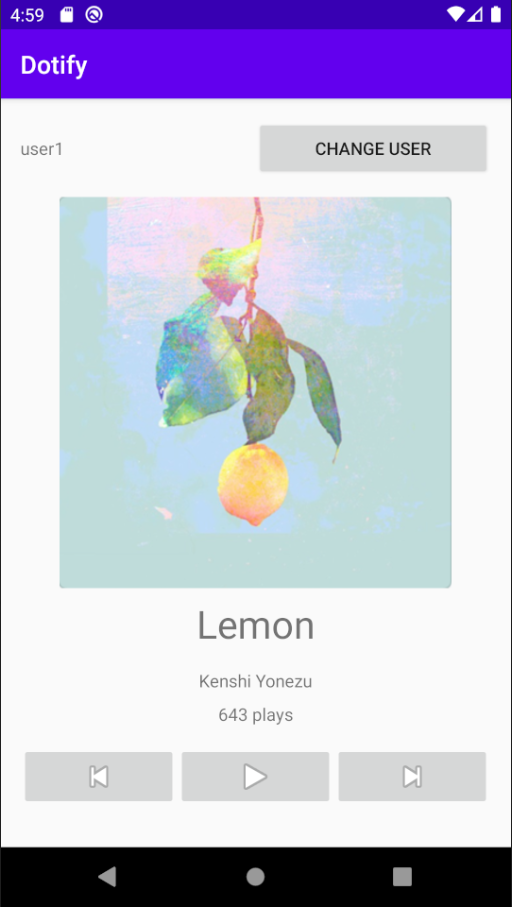
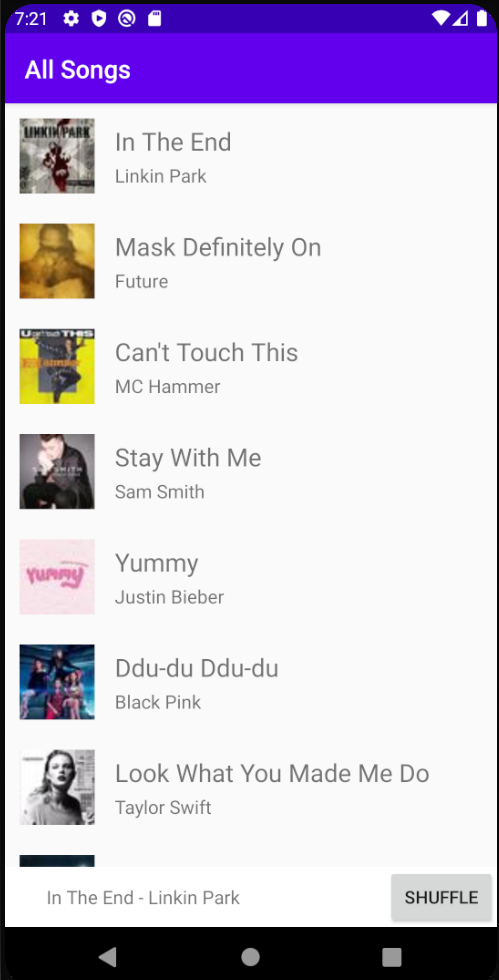
this versions has all the functionality need

diff --git a/app/src/main/java/xuany2/washington/dotify/MainActivity.kt b/app/src/main/java/xuany2/washington/dotify/MainActivity.kt
@@ -39,20 +39,20 @@ class MainActivity : AppCompatActivity() {
         setup2()
     }
 
-    fun setup2() {
+    private fun setup2() {
         val song: Song = intent.getParcelableExtra<Song>(SONG_KEY)
         val songName = song.title
         songTitle.text = songName
         val time = Random.nextInt(0, 10032)
-        playedTimes.text = "$time plays"
+        playedTimes.text = getString(R.string.numTimePlay).format(time)
         album.setImageResource(song.largeImageID)
         val artisteName = song.artist
         artisteNameText.text = artisteName
-        username.text = "Misaka 10032"
-        btnChangeUser.text = "Can't change user in this mode"
+        username.text = getString(R.string.userName)
+        btnChangeUser.text = getString(R.string.cannotChangeUserText)
     }
 
-    fun setup() {
+    private fun setup() {
         songs = mapOf(
             0 to resources.getString(R.string.songName0),
             1 to resources.getString(R.string.songName1),
@@ -100,7 +100,7 @@ class MainActivity : AppCompatActivity() {
         showSong()
     }
 
-    fun changeUser(view: View) {
+    private fun changeUser(view: View) {
         var editText = EditText(this)
         var editId = View.generateViewId()
         editText.id = editId
@@ -114,7 +114,7 @@ class MainActivity : AppCompatActivity() {
         btnApply.setOnClickListener{v: View -> applyChange(v, editId)}
     }
 
-    fun applyChange(view: View, editID: Int) {
+    private fun applyChange(view: View, editID: Int) {
         var input = findViewById<EditText>(editID)
         var inputString: String = input.text.toString().trim()
         if (inputString.isEmpty()) {
@@ -144,7 +144,7 @@ class MainActivity : AppCompatActivity() {
         }
     }
 
-    fun restoreUserSection() {
+    private fun restoreUserSection() {
         userSection.removeAllViews()
         var text = TextView(this)
         text.text = currentUser
@@ -158,7 +158,7 @@ class MainActivity : AppCompatActivity() {
         showSong()
     }
 
-    fun showSong() {
+    private fun showSong() {
         val songName = songs[current]
         songTitle.text = songName
         val time = timePlayedMap?.get(current)
@@ -169,14 +169,14 @@ class MainActivity : AppCompatActivity() {
         artisteNameText.text = artisteName
     }
 
-    fun play(view: View) {
+    private fun play(view: View) {
         var currentTimePlayed: Int = timePlayedMap?.get(current) ?:0
         currentTimePlayed++
         timePlayedMap?.put(current, currentTimePlayed)
         showSong()
     }
 
-    fun next(view: View) {
+    private fun next(view: View) {
         if (current == 3) {
             current = 0
         } else {
@@ -186,7 +186,7 @@ class MainActivity : AppCompatActivity() {
         showSong()
     }
 
-    fun previous(view: View) {
+    private fun previous(view: View) {
         if (current == 0) {
             current = 3
         } else {

diff --git a/app/src/main/java/xuany2/washington/dotify/SongListActivity.kt b/app/src/main/java/xuany2/washington/dotify/SongListActivity.kt
@@ -16,27 +16,37 @@ class SongListActivity : AppCompatActivity() {
         super.onCreate(savedInstanceState)
         setContentView(R.layout.activity_song_list)
 
-        title = "All Songs"
+        title = getString(R.string.allSong)
+        textNowPlaying.text = getString(R.string.defaultNowPlaying)
         var currentSong: Song? = null
 
+        // get all songs from data provider
         val listOfSong = SongDataProvider.getAllSongs().toMutableList()
 
         val songAdapter = SongListAdapter(listOfSong)
 
+        // set onclick event for any song
+        // change the text in now playing section
         songAdapter.onSongClickListener = {
-            textNowPlaying.text = "${it.title} - ${it.artist}"
+            textNowPlaying.text = getString(R.string.nowPlayingText).format(it.title, it.artist)
             currentSong = it
         }
 
-
+        // set onclick event for the shuffle button
+        // when a user clicks on the shuffle button, the list of
+        // songs will be shuffled
         btnShuffle.setOnClickListener{
             val newListOfSong = listOfSong.apply {shuffle()}
+            // pass the shuffled list to adapter
             songAdapter.shuffle(newListOfSong)
         }
 
+        // set onclick event for now playing section
+        // switch to a new activity when clicking on now playing section
         nowPlayingSection.setOnClickListener{
+            // if no song is playing, ask the user to play a song first
             if (currentSong == null) {
-                Toast.makeText(this, "No song is currently playing", Toast.LENGTH_SHORT).show()
+                Toast.makeText(this, getString(R.string.noSongPlaying), Toast.LENGTH_SHORT).show()
             } else {
                 val intent = Intent(this, MainActivity::class.java)
                 intent.putExtra(SONG_KEY, currentSong)

diff --git a/app/src/main/java/xuany2/washington/dotify/SongListAdapter.kt b/app/src/main/java/xuany2/washington/dotify/SongListAdapter.kt
@@ -10,7 +10,9 @@ import com.ericchee.songdataprovider.Song
 
 class SongListAdapter(private val initialListOfSongs: MutableList<Song>): RecyclerView.Adapter<SongListAdapter.SongViewHolder>() {
 
+    // stores the list of songs passed in
     private var listOfSongs: MutableList<Song> = initialListOfSongs.toMutableList()
+    // stores the onclick event
     var onSongClickListener: ((song: Song) -> Unit)? = null
 
     override fun onCreateViewHolder(parent: ViewGroup, viewType: Int): SongViewHolder {
@@ -21,6 +23,8 @@ class SongListAdapter(private val initialListOfSongs: MutableList<Song>): Recycl
 
     override fun getItemCount() = listOfSongs.size
 
+    // change the list of songs to the shuffled list
+    // notify the data set to change the list
     fun shuffle(shuffledList: MutableList<Song>) {
         listOfSongs = shuffledList
         notifyDataSetChanged()

diff --git a/README.md b/README.md
@@ -1,11 +1,11 @@
 # Dotify by Sean Yang
 
-This is a simple Android app that stimulates a music play app. A user can click the play
-button to increment the number of time played. One can also add a new user and the time played
-of all songs will be set to 0. A user can also skip or go back to preivous songs.
+This is a second version of a music player. The main part of the player is a list of musics.
+A user can click on any music in the list and the mini player in the bottom will show
+the current music playing. When a user clicks on the mini player, the screen will be directed
+to a full player. User can go back to list by clicking on the back button below. 
+Unfortunately this version does not support user changes. 
 
-## Extra credit
-I have completed extra credit #1 #4 #5
 
 ## Screenshots
 <img src="./ScreenShot.png" alt="Screenshot of the app" height="500" />
